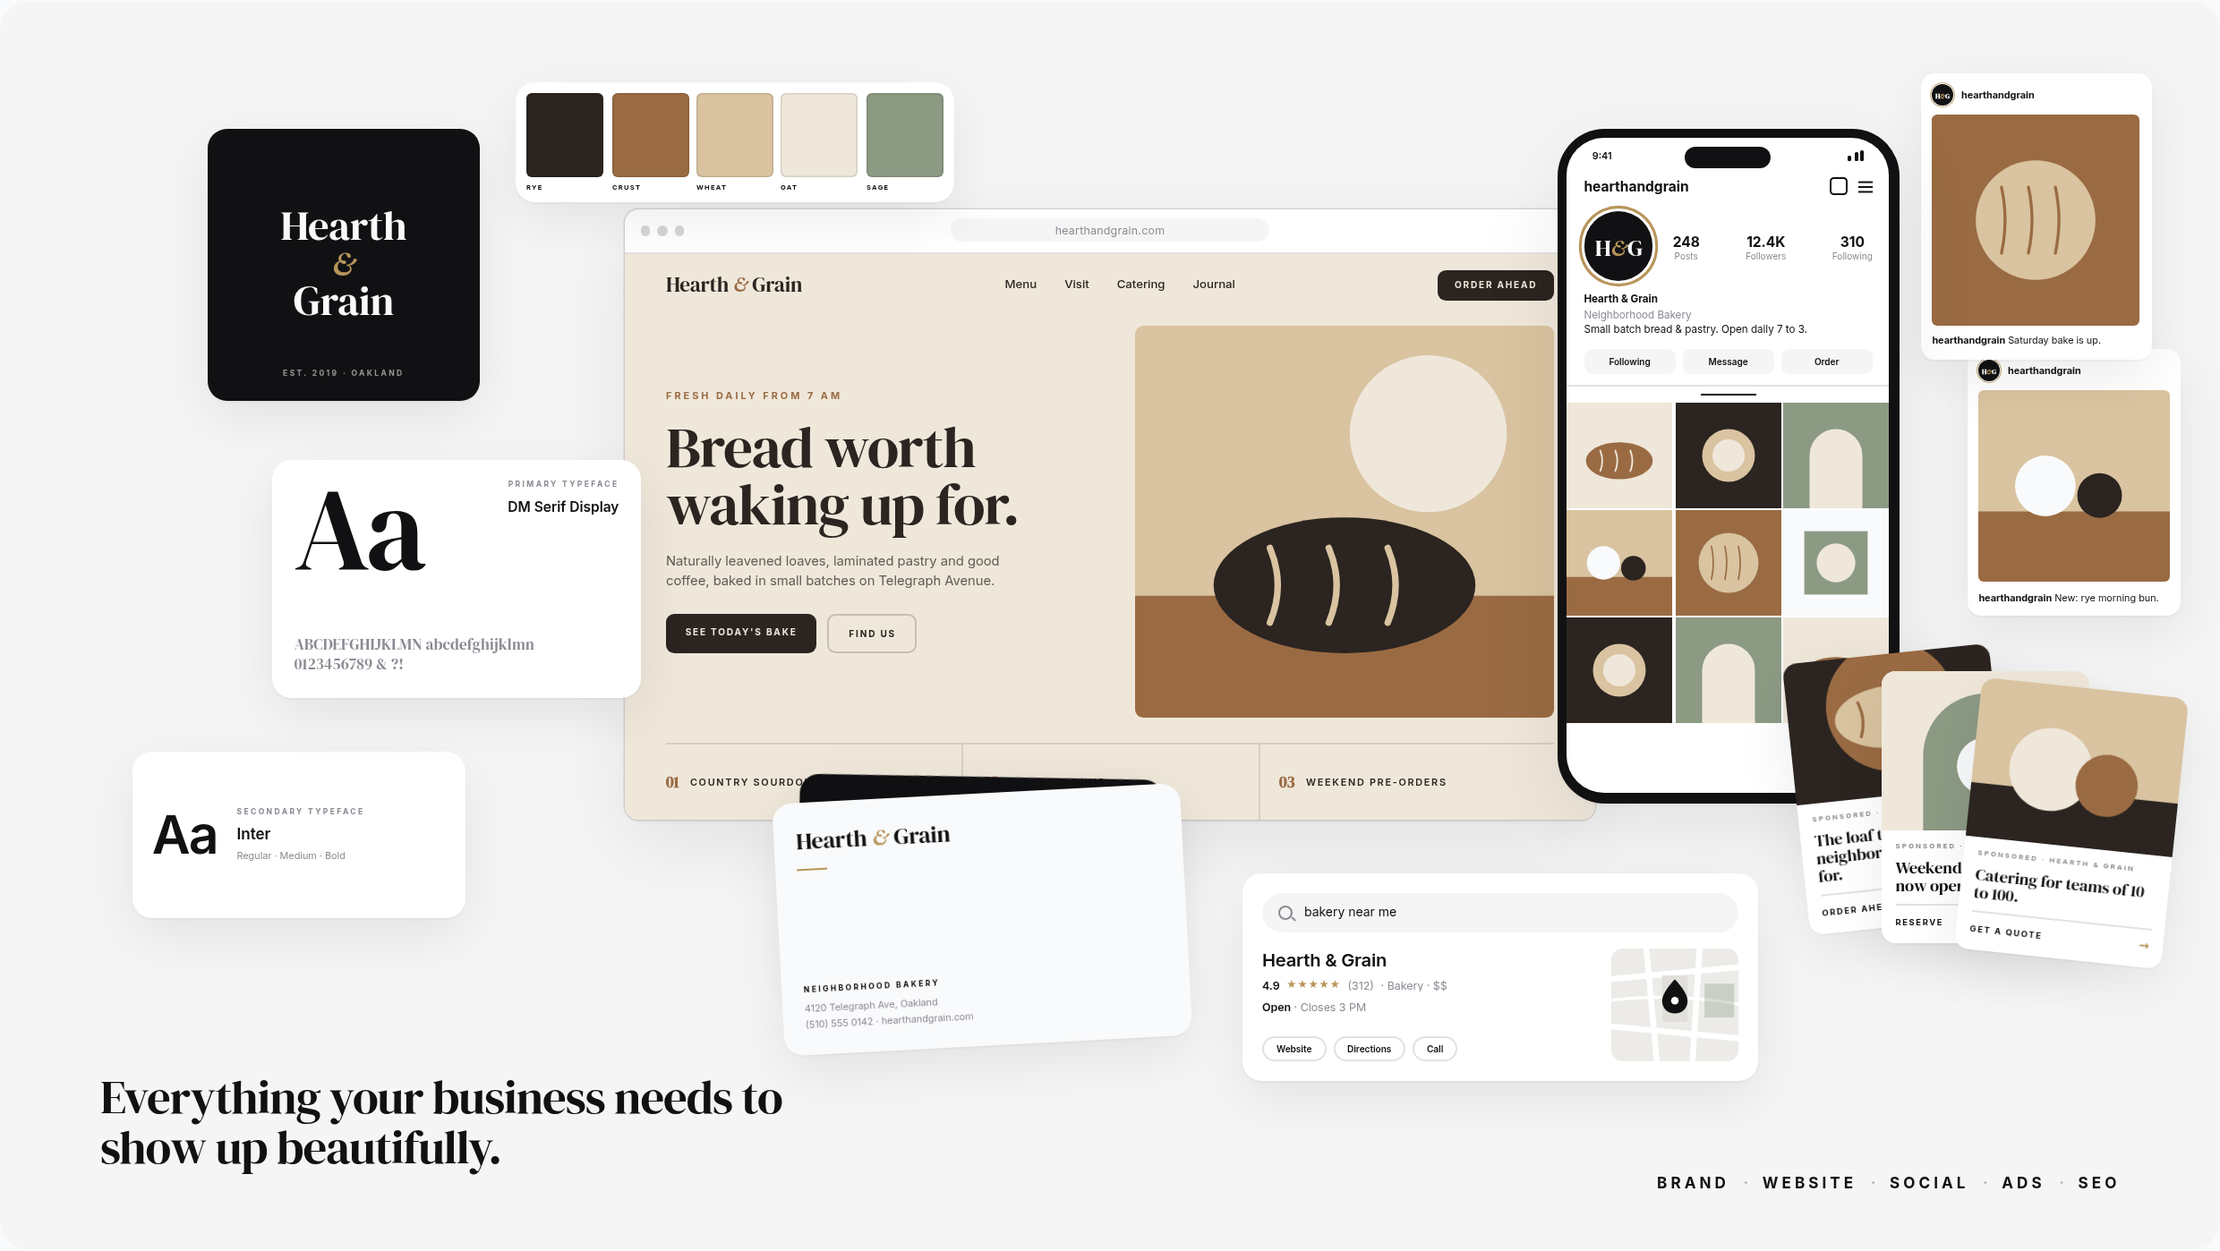
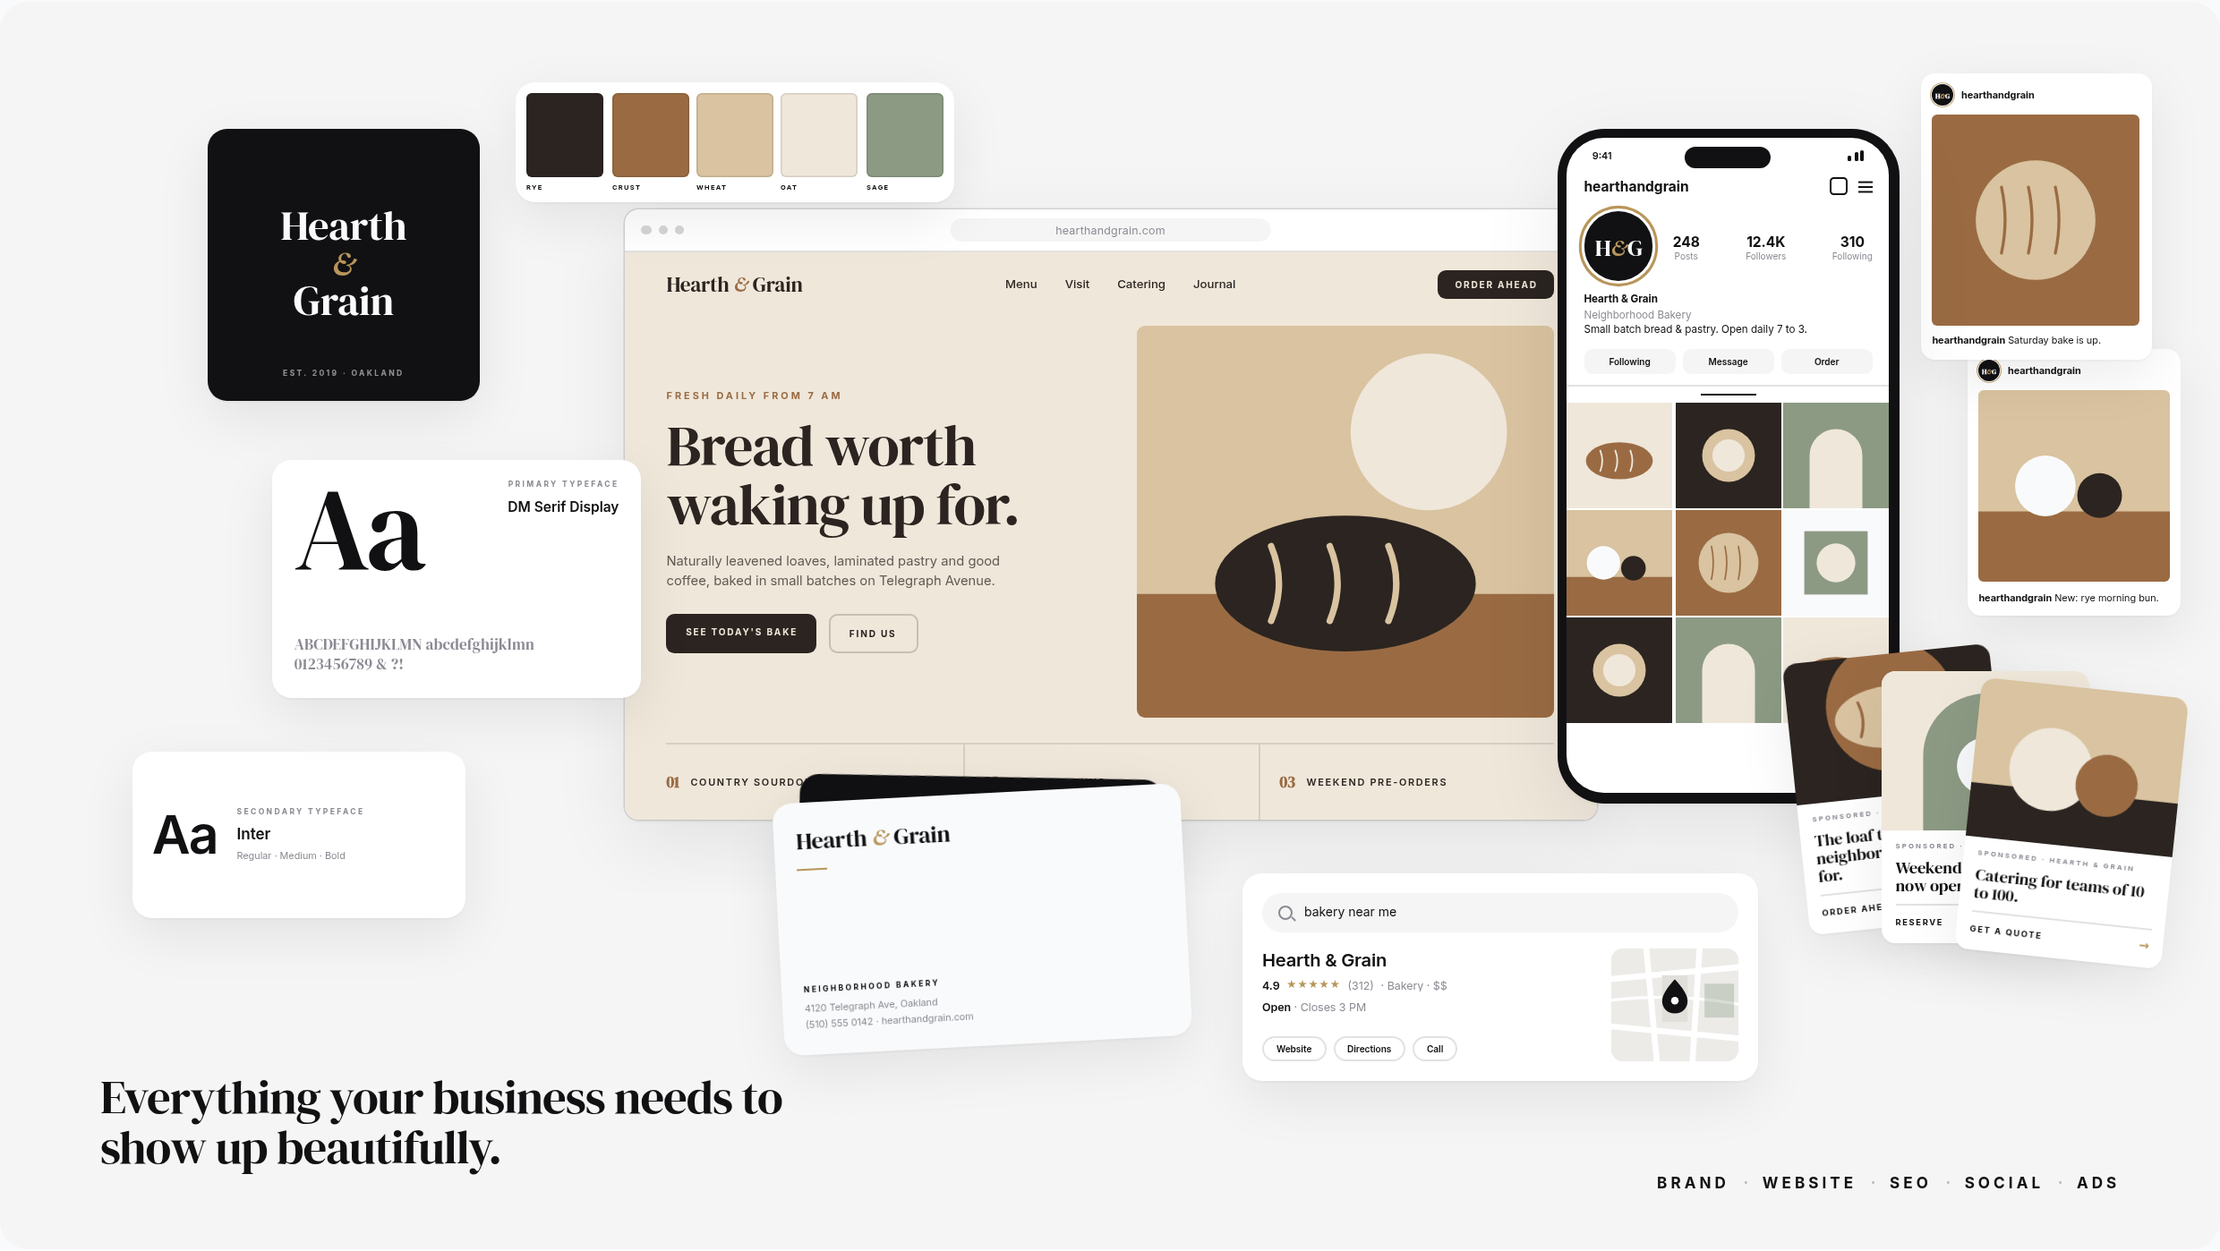
Resequence showcase: brand in centre, then website, search, Instagram, ads
Brand pieces assemble as a board in the centre and travel to the left
while the website opens from the centre. Search/Maps follows, then
Instagram, then ads. Loop is 16s and starts and ends on an empty canvas.
Mobile layout moves the search listing up to follow the business card.

Claude-Session: https://claude.ai/code/session_01Nts41NtjcGteeMAPJNmS3W

diff --git a/src/components/SmallBusinessShowcase/showcase-motion.ts b/src/components/SmallBusinessShowcase/showcase-motion.ts
@@ -1,7 +1,7 @@
 /**
  * ANIMATION for the Small Business showcase.
  *
- * One 15 second timeline drives everything. It is compiled to plain CSS
+ * One 16 second timeline drives everything. It is compiled to plain CSS
  * @keyframes (transform, opacity, clip-path only) so the loop runs on the
  * compositor with no per-frame JavaScript and no React re-renders.
  *
@@ -15,7 +15,7 @@
 import type { PillarKey } from "./showcase-data";
 import { EASE_OUT } from "@/brand/tokens";
 
-export const LOOP = 15;
+export const LOOP = 16;
 
 export const EASE = {
   /** Art-directed entrances: fast start, long settle. Token from styles.css. */
@@ -33,12 +33,16 @@ export const EASE = {
 // ---------------------------------------------------------------------------
 
 export const SCENES = {
-  website: [0, 2.4],
-  brand: [2.4, 5.2],
-  social: [5.2, 8.0],
-  adsSearch: [8.0, 10.8],
-  ecosystem: [10.8, 13.3],
-  loop: [13.3, LOOP],
+  /** Brand system assembles in the centre of the canvas. */
+  brand: [0, 3.4],
+  /** Brand pieces travel to the left; the website opens from the centre. */
+  website: [3.4, 6.0],
+  search: [6.0, 8.2],
+  social: [8.2, 10.4],
+  ads: [10.4, 11.9],
+  ecosystem: [11.9, 14.6],
+  /** Everything clears; the loop restarts on an empty canvas. */
+  loop: [14.6, LOOP],
 } as const;
 
 export type ElementId =
@@ -65,60 +69,68 @@ type Cue = {
   /** Offset the element enters from, relative to its resting place. */
   from: Pose;
   /** Optional mask that opens with the entrance. */
-  clip?: "up" | "left" | "down";
+  clip?: "up" | "left" | "down" | "center";
 };
 
 export const TIMELINE = {
-  // Scene 2: brand. Logo first, then type, then color and collateral.
-  logo: { at: 2.5, dur: 1.3, from: { y: 28, s: 0.97 }, clip: "up" },
-  typePrimary: { at: 3.05, dur: 1.2, from: { x: -36 }, clip: "left" },
-  typeSecondary: { at: 3.4, dur: 1.1, from: { x: -28 } },
-  palette: { at: 3.75, dur: 1.1, from: { y: 20 } },
-  card: { at: 4.15, dur: 1.3, from: { y: 56, r: 3, s: 1.02 } },
+  // Scene 1: brand, assembled in the centre (see LAYOUTS[*].intro).
+  logo: { at: 0.4, dur: 1.3, from: { y: 28, s: 0.97 }, clip: "up" },
+  typePrimary: { at: 0.85, dur: 1.2, from: { x: -36 }, clip: "left" },
+  typeSecondary: { at: 1.15, dur: 1.1, from: { x: -28 } },
+  palette: { at: 1.45, dur: 1.1, from: { y: 20 } },
+  card: { at: 1.85, dur: 1.3, from: { y: 56, r: 3, s: 1.02 } },
 
-  // Scene 3: social. Phone rises, grid populates, posts slide out of it.
-  phone: { at: 5.5, dur: 1.4, from: { y: 110 } },
-  postA: { at: 6.85, dur: 1.2, from: { x: -80, s: 0.96 } },
-  postB: { at: 7.15, dur: 1.2, from: { x: -110, s: 0.96 } },
+  // Scene 2: website opens from the centre once the brand has moved aside.
+  website: { at: 4.2, dur: 1.5, from: { s: 0.9 }, clip: "center" },
 
-  // Scene 4: ads stack in, then fan (see ADS_FAN). Search follows.
-  ad0: { at: 8.05, dur: 0.9, from: { y: 90 } },
-  ad1: { at: 8.17, dur: 0.9, from: { y: 90 } },
-  ad2: { at: 8.29, dur: 0.9, from: { y: 90 } },
-  search: { at: 8.95, dur: 1.2, from: { y: 36 }, clip: "down" },
+  // Scene 3: Google search / Maps listing.
+  search: { at: 6.2, dur: 1.2, from: { y: 36 }, clip: "down" },
+
+  // Scene 4: Instagram. Phone rises, grid populates, posts slide out of it.
+  phone: { at: 8.3, dur: 1.4, from: { y: 110 } },
+  postA: { at: 9.55, dur: 1.2, from: { x: -80, s: 0.96 } },
+  postB: { at: 9.85, dur: 1.2, from: { x: -110, s: 0.96 } },
+
+  // Scene 5: ads stack in, then fan (see ADS_FAN).
+  ad0: { at: 10.45, dur: 0.9, from: { y: 90 } },
+  ad1: { at: 10.57, dur: 0.9, from: { y: 90 } },
+  ad2: { at: 10.69, dur: 0.9, from: { y: 90 } },
 } satisfies Partial<Record<ElementId, Cue>>;
 
+/** Brand pieces travel from their centre arrangement to their resting place. */
+export const BRAND_MOVE = { at: 3.3, dur: 1.3, stagger: 0.07 };
+
 /** Ads land stacked, then fan to their resting layout pose. */
-export const ADS_FAN = { at: 8.9, dur: 1.0, stagger: 0.06 };
+export const ADS_FAN = { at: 11.1, dur: 1.0, stagger: 0.06 };
 
 /** Inner sequences that play inside a revealed element. */
 export const INNER = {
-  swatches: { at: 3.95, stagger: 0.08, dur: 0.8 },
-  grid: { at: 6.05, stagger: 0.085, dur: 0.7 },
-  typing: { at: 9.4, dur: 0.7 },
-  searchRows: { at: 9.95, stagger: 0.12, dur: 0.8 },
+  swatches: { at: 1.65, stagger: 0.08, dur: 0.8 },
+  grid: { at: 8.85, stagger: 0.085, dur: 0.7 },
+  typing: { at: 6.65, dur: 0.7 },
+  searchRows: { at: 7.2, stagger: 0.12, dur: 0.8 },
 };
 
-/** Scene 6: everything drifts outward and fades while the camera pushes in. */
-export const EXIT = { at: 13.3, dur: 0.85, stagger: 0.035, distance: 90, scale: 0.97 };
+/** Scene 7: everything drifts outward and fades, website last. */
+export const EXIT = { at: 14.6, dur: 0.8, stagger: 0.035, distance: 90, scale: 0.97 };
 
 export const CAPTIONS = {
   /** "Your business, elevated." Visible at loop start AND end (seamless). */
-  opening: { outAt: 2.0, outDur: 0.6, inAt: 14.05, inDur: 0.8 },
+  opening: { outAt: 2.8, outDur: 0.6, inAt: 15.15, inDur: 0.75 },
   /** Closing headline over the full composition. */
-  closing: { at: 11.3, dur: 1.0, outAt: 13.2, outDur: 0.55 },
+  closing: { at: 12.5, dur: 1.0, outAt: 14.4, outDur: 0.55 },
   /** Highlight windows for the running index. Inactive labels sit at `dim`. */
   dim: 0.28,
   fade: 0.4,
   pillars: {
-    website: [[0, 2.4], [14.3, LOOP]],
-    brand: [[2.4, 5.2]],
-    social: [[5.2, 8.0]],
-    ads: [[8.0, 9.2]],
-    seo: [[9.2, 10.9]],
+    brand: [[0, 4.2], [15.5, LOOP]],
+    website: [[4.2, 6.0]],
+    seo: [[6.0, 8.2]],
+    social: [[8.2, 10.4]],
+    ads: [[10.4, 11.9]],
   } as Record<PillarKey, [number, number][]>,
   /** All labels at full strength over the ecosystem frame. */
-  allOn: [11.2, 13.4] as [number, number],
+  allOn: [12.2, 14.6] as [number, number],
 };
 
 // ---------------------------------------------------------------------------
@@ -143,14 +155,16 @@ export type Layout = {
   name: "desktop" | "mobile";
   stage: { w: number; h: number };
   boxes: Partial<Record<ElementId, Box>>;
+  /** Where brand pieces first assemble (top-left, stage units) before moving to `boxes`. */
+  intro: Partial<Record<ElementId, { x: number; y: number }>>;
   /** Camera path. Origin is the website centre. The final stop must equal the first. */
   camera: CameraStop[];
   captions: { opening: Box; closing: Box; pillars: Box; align: "left" | "right" };
 };
 
-const desktopCameraStart = { s: 1.8, x: 0, y: 40 };
-/** Mobile opens tight on the website's headline column, not the whole page. */
-const mobileCameraStart = { s: 2.0, x: 290, y: 245 };
+/** Loop start and end: close on the brand board in the centre. */
+const desktopCameraStart = { s: 1.2, x: 0, y: 20 };
+const mobileCameraStart = { s: 1.05, x: 0, y: -100 };
 
 export const LAYOUTS: Record<"desktop" | "mobile", Layout> = {
   desktop: {
@@ -171,18 +185,26 @@ export const LAYOUTS: Record<"desktop" | "mobile", Layout> = {
       ad2: { x: 1418, y: 494, w: 150, h: 196, r: 6, z: 19 },
       search: { x: 896, y: 628, w: 372, h: 150, z: 20 },
     },
+    intro: {
+      palette: { x: 560, y: 190 },
+      logo: { x: 560, y: 282 },
+      typePrimary: { x: 776, y: 282 },
+      typeSecondary: { x: 842, y: 498 },
+      card: { x: 560, y: 498 },
+    },
     camera: [
       { t: 0, ...desktopCameraStart },
-      { t: 0.45, ...desktopCameraStart },
-      { t: 2.6, s: 1.42, x: 0, y: 30 },
-      { t: 4.9, s: 1.16, x: 120, y: 40 },
-      { t: 5.4, s: 1.16, x: 120, y: 40 },
-      { t: 6.6, s: 1.14, x: -130, y: 30 },
-      { t: 8.0, s: 1.14, x: -130, y: 30 },
-      { t: 9.2, s: 1.1, x: -150, y: -24 },
-      { t: 10.8, s: 1.1, x: -150, y: -24 },
-      { t: 12.0, s: 1, x: 0, y: 0 },
-      { t: 13.3, s: 1, x: 0, y: 0 },
+      { t: 2.6, ...desktopCameraStart },
+      { t: 4.8, s: 1.14, x: 110, y: 40 },
+      { t: 6.0, s: 1.14, x: 110, y: 40 },
+      { t: 7.0, s: 1.14, x: -40, y: -50 },
+      { t: 8.2, s: 1.14, x: -40, y: -50 },
+      { t: 9.2, s: 1.14, x: -130, y: -40 },
+      { t: 10.4, s: 1.14, x: -130, y: -40 },
+      { t: 11.2, s: 1.1, x: -150, y: -10 },
+      { t: 11.9, s: 1.1, x: -150, y: -10 },
+      { t: 12.9, s: 1, x: 0, y: 0 },
+      { t: 14.7, s: 1, x: 0, y: 0 },
       { t: LOOP, ...desktopCameraStart },
     ],
     captions: {
@@ -204,24 +226,32 @@ export const LAYOUTS: Record<"desktop" | "mobile", Layout> = {
       website: { x: 70, y: 316, w: 760, h: 478, z: 10 },
       card: { x: 60, y: 752, w: 300, h: 172, r: -3, z: 15 },
       phone: { x: 560, y: 716, w: 270, h: 548, z: 16 },
-      postA: { x: 384, y: 820, w: 156, h: 196, z: 12 },
-      ad0: { x: 70, y: 1000, w: 176, h: 220, r: -6, z: 17 },
-      ad1: { x: 176, y: 1012, w: 176, h: 220, r: 0, z: 18 },
-      ad2: { x: 282, y: 1024, w: 176, h: 220, r: 6, z: 19 },
-      search: { x: 70, y: 1270, w: 470, h: 142, z: 20 },
+      postA: { x: 396, y: 800, w: 134, h: 164, z: 12 },
+      ad0: { x: 70, y: 1146, w: 176, h: 220, r: -6, z: 17 },
+      ad1: { x: 176, y: 1158, w: 176, h: 220, r: 0, z: 18 },
+      ad2: { x: 282, y: 1170, w: 176, h: 220, r: 6, z: 19 },
+      search: { x: 70, y: 972, w: 470, h: 142, z: 20 },
+    },
+    intro: {
+      logo: { x: 64, y: 700 },
+      typePrimary: { x: 268, y: 700 },
+      palette: { x: 582, y: 700 },
+      typeSecondary: { x: 582, y: 804 },
+      card: { x: 300, y: 910 },
     },
     camera: [
       { t: 0, ...mobileCameraStart },
-      { t: 0.45, ...mobileCameraStart },
-      { t: 2.6, s: 1.2, x: 0, y: 250 },
-      { t: 4.9, s: 1.08, x: 0, y: 260 },
-      { t: 5.4, s: 1.08, x: 0, y: 260 },
-      { t: 6.6, s: 1.08, x: 0, y: -10 },
-      { t: 8.0, s: 1.08, x: 0, y: -10 },
-      { t: 9.2, s: 1.08, x: 0, y: -110 },
-      { t: 10.8, s: 1.08, x: 0, y: -110 },
-      { t: 12.0, s: 1, x: 0, y: 0 },
-      { t: 13.3, s: 1, x: 0, y: 0 },
+      { t: 2.6, ...mobileCameraStart },
+      { t: 4.8, s: 1.08, x: 0, y: 260 },
+      { t: 6.0, s: 1.08, x: 0, y: 260 },
+      { t: 7.0, s: 1.08, x: 0, y: 100 },
+      { t: 8.2, s: 1.08, x: 0, y: 100 },
+      { t: 9.2, s: 1.08, x: 0, y: -10 },
+      { t: 10.4, s: 1.08, x: 0, y: -10 },
+      { t: 11.2, s: 1.08, x: 0, y: -160 },
+      { t: 11.9, s: 1.08, x: 0, y: -160 },
+      { t: 12.9, s: 1, x: 0, y: 0 },
+      { t: 14.7, s: 1, x: 0, y: 0 },
       { t: LOOP, ...mobileCameraStart },
     ],
     captions: {
@@ -266,21 +296,34 @@ const keyframes = (name: string, stops: Stop[]) => {
 };
 
 const CLIP = {
-  closed: { up: "inset(100% 0 0 0)", down: "inset(0 0 100% 0)", left: "inset(0 100% 0 0)" },
+  closed: { up: "inset(100% 0 0 0)", down: "inset(0 0 100% 0)", left: "inset(0 100% 0 0)", center: "inset(50% 50% 50% 50%)" },
   open: "inset(0 0 0 0)",
+  /** The website mask opens past its edges so its shadow is not clipped. */
+  openWide: "inset(-12% -12% -12% -12%)",
 };
 
 type Rule = { selector: string; base: string; stops: Stop[] };
 
-/** Peripheral element: enter, rest, drift outward on the loop push-in. */
-function revealStops(cue: Cue, rest: Pose, out: Pose, exitAt: number): Stop[] {
-  const from = offset(rest, cue.from, 0);
+/**
+ * Enter, rest, drift outward at the end of the loop. With `intro`, the element
+ * first lands at an intermediate pose and travels to rest at `moveAt`.
+ */
+function revealStops(cue: Cue, rest: Pose, out: Pose, exitAt: number, intro?: { pose: Pose; moveAt: number }): Stop[] {
+  const land = intro?.pose ?? rest;
+  const from = offset(land, cue.from, 0);
   const gone = offset(rest, out, 0);
   const end = cue.at + (cue.dur ?? 1.1);
+  const travel: Stop[] = intro
+    ? [
+        { t: intro.moveAt, css: poseCss(land), ease: EASE.camera },
+        { t: intro.moveAt + BRAND_MOVE.dur, css: poseCss(rest), ease: EASE.hold },
+      ]
+    : [];
   return [
     { t: 0, css: poseCss(from) },
     { t: cue.at, css: poseCss(from), ease: EASE.enter },
-    { t: end, css: poseCss(rest), ease: EASE.hold },
+    { t: end, css: poseCss(land), ease: EASE.hold },
+    ...travel,
     { t: exitAt, css: poseCss(rest), ease: EASE.exit },
     { t: exitAt + EXIT.dur, css: poseCss(gone) },
     { t: LOOP, css: poseCss(gone) },
@@ -297,9 +340,9 @@ function innerStops(at: number, dur: number, from: Pose): Stop[] {
   ];
 }
 
-function clipStops(at: number, dur: number, dir: keyof typeof CLIP.closed, ease: string = EASE.enter): Stop[] {
+function clipStops(at: number, dur: number, dir: keyof typeof CLIP.closed, ease: string = EASE.enter, openValue = CLIP.open): Stop[] {
   const closed = `clip-path:${CLIP.closed[dir]}`;
-  const open = `clip-path:${CLIP.open}`;
+  const open = `clip-path:${openValue}`;
   return [
     { t: 0, css: closed },
     { t: at, css: closed, ease },
@@ -366,9 +409,12 @@ function compileLayout(layout: Layout, gridCount: number, swatchCount: number, r
     })),
   });
 
-  // Peripheral elements, exit order by distance from the website.
+  // Elements. Exit order by distance from the website, so it leaves last.
   const focus = center(layout.boxes.website!);
-  const ids = (Object.keys(layout.boxes) as ElementId[]).filter((id) => id !== "website");
+  const ids = Object.keys(layout.boxes) as ElementId[];
+  const brandOrder = (Object.keys(layout.intro) as ElementId[]).sort(
+    (a, b) => ((TIMELINE as Record<string, Cue>)[a]?.at ?? 0) - ((TIMELINE as Record<string, Cue>)[b]?.at ?? 0),
+  );
   const byDistance = [...ids].sort(
     (a, b) =>
       Math.hypot(center(layout.boxes[b]!).x - focus.x, center(layout.boxes[b]!).y - focus.y) -
@@ -380,7 +426,7 @@ function compileLayout(layout: Layout, gridCount: number, swatchCount: number, r
     const cue = (TIMELINE as Record<string, Cue>)[id];
     if (!cue) continue;
     const exitAt = EXIT.at + byDistance.indexOf(id) * EXIT.stagger;
-    const out = outward(layout, box);
+    const out = id === "website" ? { s: EXIT.scale } : outward(layout, box);
     const isAd = (AD_IDS as readonly string[]).includes(id);
     const rest: Pose = { r: box.r ?? 0 };
 
@@ -406,14 +452,19 @@ function compileLayout(layout: Layout, gridCount: number, swatchCount: number, r
         ],
       });
     } else {
-      rules.push({ selector: sel(id), base: poseCss(rest), stops: revealStops(cue, rest, out, exitAt) });
+      const at = layout.intro[id];
+      const intro = at
+        ? { pose: { ...rest, x: at.x - box.x, y: at.y - box.y }, moveAt: BRAND_MOVE.at + brandOrder.indexOf(id) * BRAND_MOVE.stagger }
+        : undefined;
+      rules.push({ selector: sel(id), base: poseCss(rest), stops: revealStops(cue, rest, out, exitAt, intro) });
     }
 
     if (cue.clip) {
+      const openValue = cue.clip === "center" ? CLIP.openWide : CLIP.open;
       rules.push({
         selector: sel(`${id}-mask`),
-        base: `clip-path:${CLIP.open}`,
-        stops: clipStops(cue.at, (cue.dur ?? 1.1) * 0.95, cue.clip),
+        base: `clip-path:${openValue}`,
+        stops: clipStops(cue.at, (cue.dur ?? 1.1) * 0.95, cue.clip, EASE.enter, openValue),
       });
     }
   }

diff --git a/src/components/SmallBusinessShowcase/SmallBusinessShowcase.tsx b/src/components/SmallBusinessShowcase/SmallBusinessShowcase.tsx
@@ -49,7 +49,11 @@ function Stage({ layout, c }: { layout: Layout; c: ShowcaseContent }) {
   const origin = `${u(site.x + site.w / 2)} ${u(site.y + site.h / 2)}`;
 
   const pieces: Partial<Record<ElementId, ReactNode>> = {
-    website: <WebsiteMock c={c} />,
+    website: (
+      <div data-sbs="website-mask" style={{ width: "100%", height: "100%" }}>
+        <WebsiteMock c={c} />
+      </div>
+    ),
     logo: <LogoCard c={c} />,
     typePrimary: <TypePrimaryCard c={c} />,
     typeSecondary: <TypeSecondaryCard c={c} />,

diff --git a/src/components/SmallBusinessShowcase/showcase-data.ts b/src/components/SmallBusinessShowcase/showcase-data.ts
@@ -61,9 +61,9 @@ export const showcaseContent = {
     pillars: [
       { key: "brand", label: "Brand" },
       { key: "website", label: "Website" },
+      { key: "seo", label: "SEO" },
       { key: "social", label: "Social" },
       { key: "ads", label: "Ads" },
-      { key: "seo", label: "SEO" },
     ] as { key: PillarKey; label: string }[],
   },
 

diff --git a/README.md b/README.md
@@ -2,7 +2,9 @@
 
 An animated "entire digital presence" section for the Small Business page:
 brand, website, social, ads and search revealed around a central website in
-a seamless 15 second loop.
+a seamless 16 second loop: brand assembles in the centre, moves aside as the
+website opens from the centre, then Google search/Maps, Instagram and ads,
+ending on the full composition.
 
 ![Ecosystem frame](docs/frames/desktop-12-ecosystem.png)
 
@@ -49,8 +51,10 @@ with `loading="lazy"`.
 
 `showcase-motion.ts` holds every number: `TIMELINE` (entrances), `ADS_FAN`,
 `INNER` (grid, swatches, typing), `EXIT`, `CAPTIONS`, and `LAYOUTS`
-(desktop 1600x900 stage, mobile 900x1600 stage, camera paths). The camera's
-last stop equals its first, which is what makes the loop seamless.
+(desktop 1600x900 stage, mobile 900x1600 stage, `intro` centre positions
+for the brand pieces, camera paths). The camera's
+last stop equals its first and the loop starts and ends on an empty canvas,
+which is what makes it seamless.
 
 ## How it runs
 
